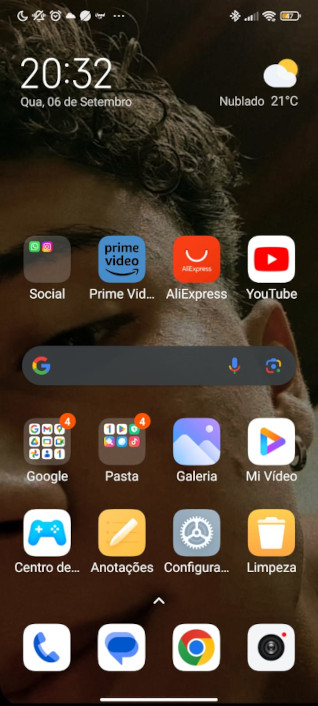
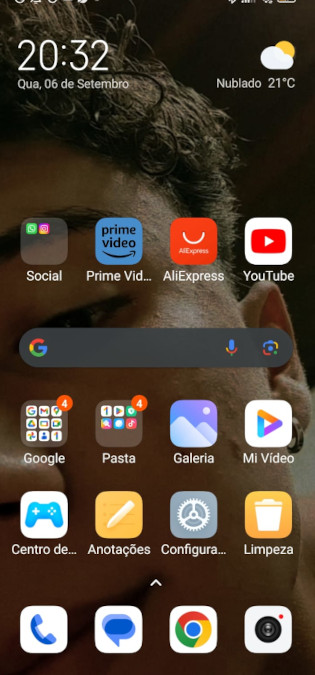
atualizei a imagem do home

diff --git a/home.html b/home.html
@@ -14,7 +14,7 @@
     body{
         width: 100vw;
         height: 100vh;
-        background:black url('imagens/tela-home.jpg') ;
+        background:black url('imagens/home\ 3.jpg') ;
         background-repeat: no-repeat;
         background-position: top center;
         background-size: cover;
